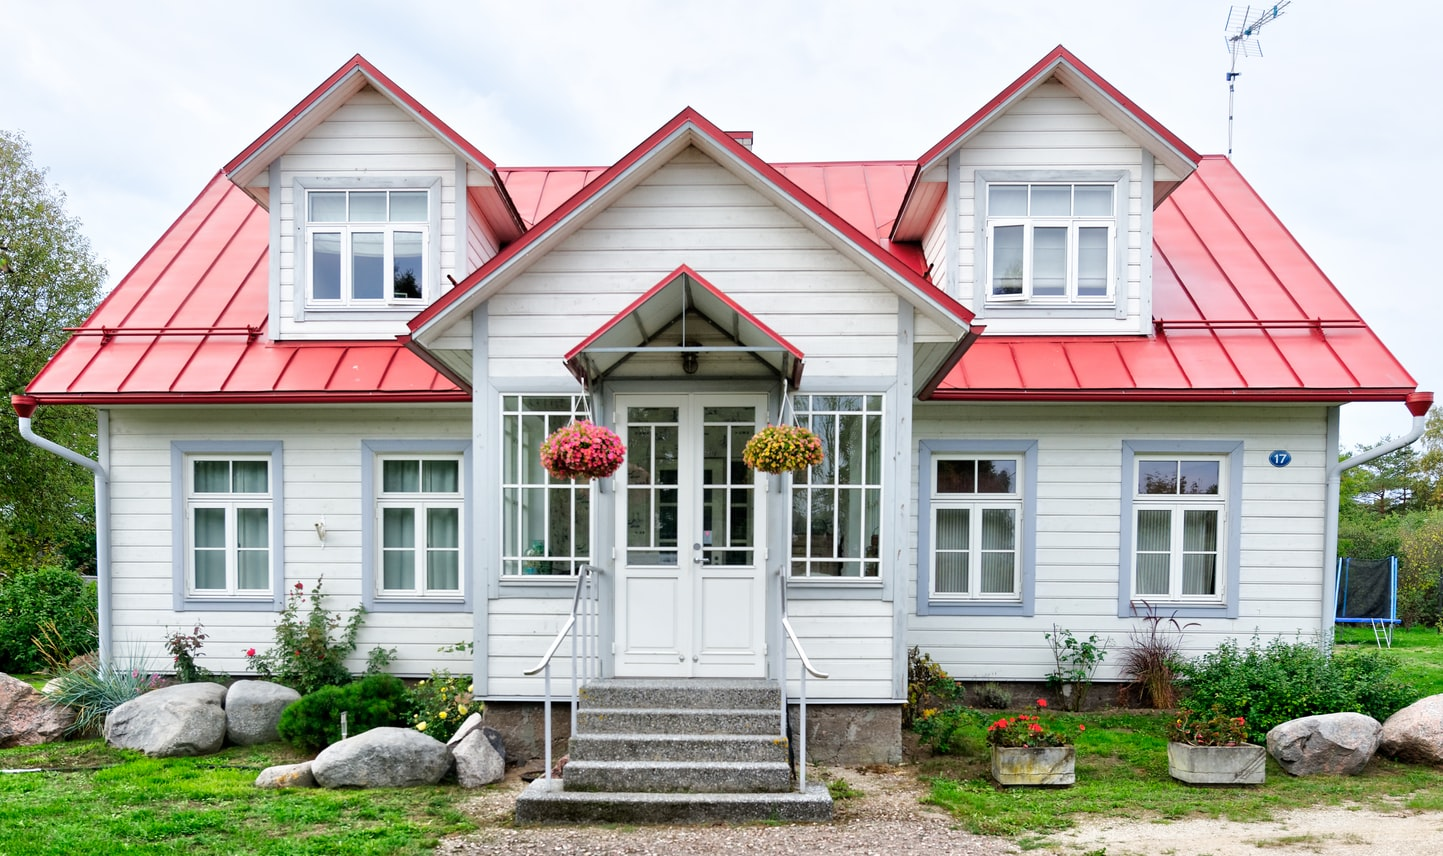
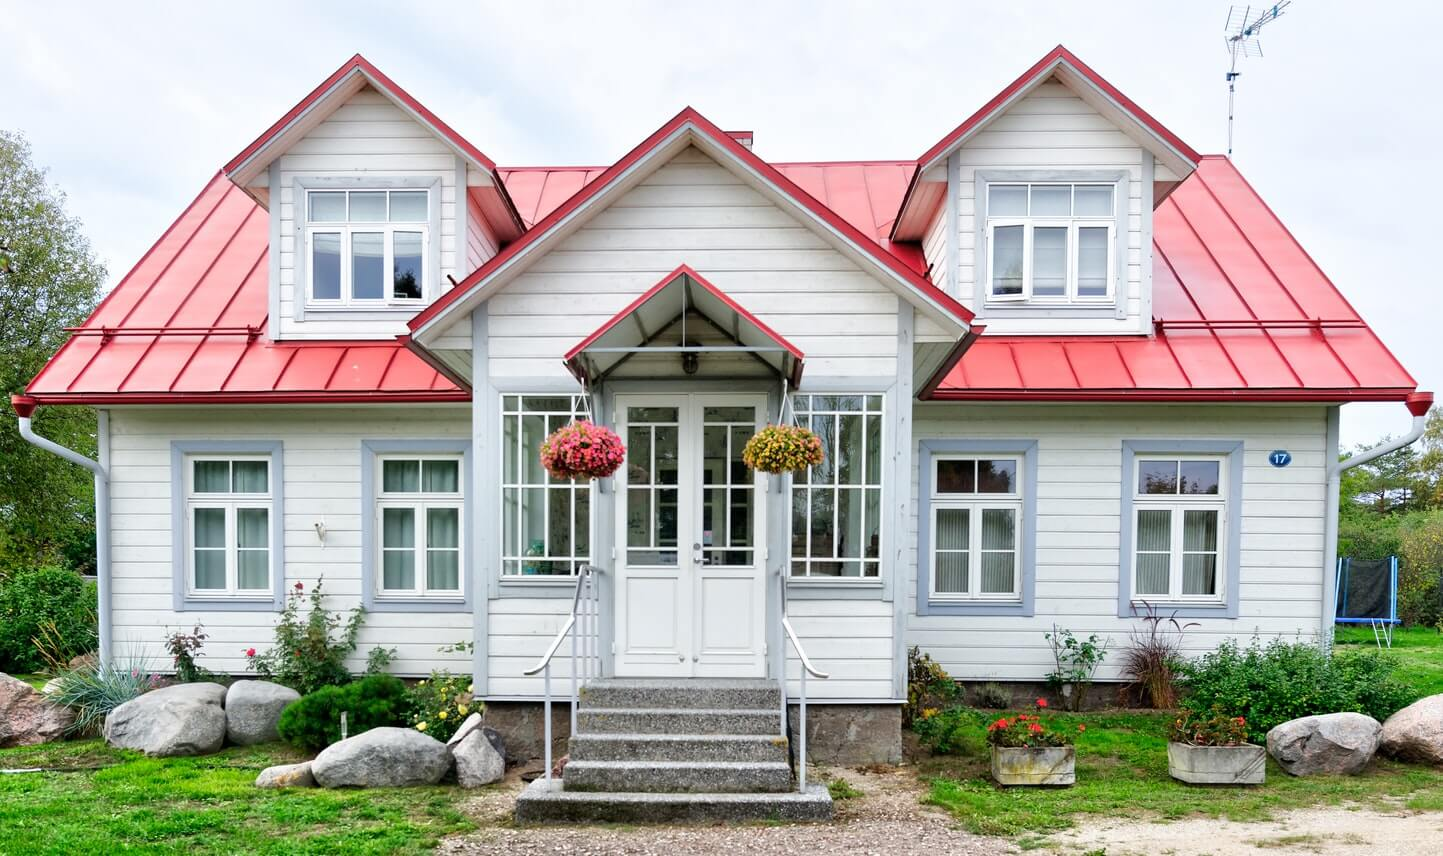
Compressed images to load quicker

Changed region(s): [[0.6861, 0.8201, 0.7173, 0.8505], [0.5301, 0.5164, 0.5613, 0.5467]]

diff --git a/styles/style.css b/styles/style.css
@@ -81,7 +81,7 @@ audio,
 video {
   margin: 0;
   padding: 0;
-  /* border: 0; */
+  border: 0;
   font-size: 100%;
   font: inherit;
   vertical-align: baseline;
@@ -136,6 +136,7 @@ body {
   line-height: 1.5;
   font-family: 'Montserrat', sans-serif;
 }
+/* Nav Bar */
 header {
   display: flex;
   justify-content: space-around;
@@ -179,6 +180,8 @@ nav a {
   width: 20%;
   text-align: center;
 }
+
+/* Splash Image */
 .hero-img {
   background-image: url('../images/herohouse.jpg');
   background-size: cover;
@@ -207,6 +210,8 @@ nav a {
   text-align: center;
   padding: 1%;
 }
+
+/* Page Info */
 .container {
   width: 60%;
   margin: 0 auto;
